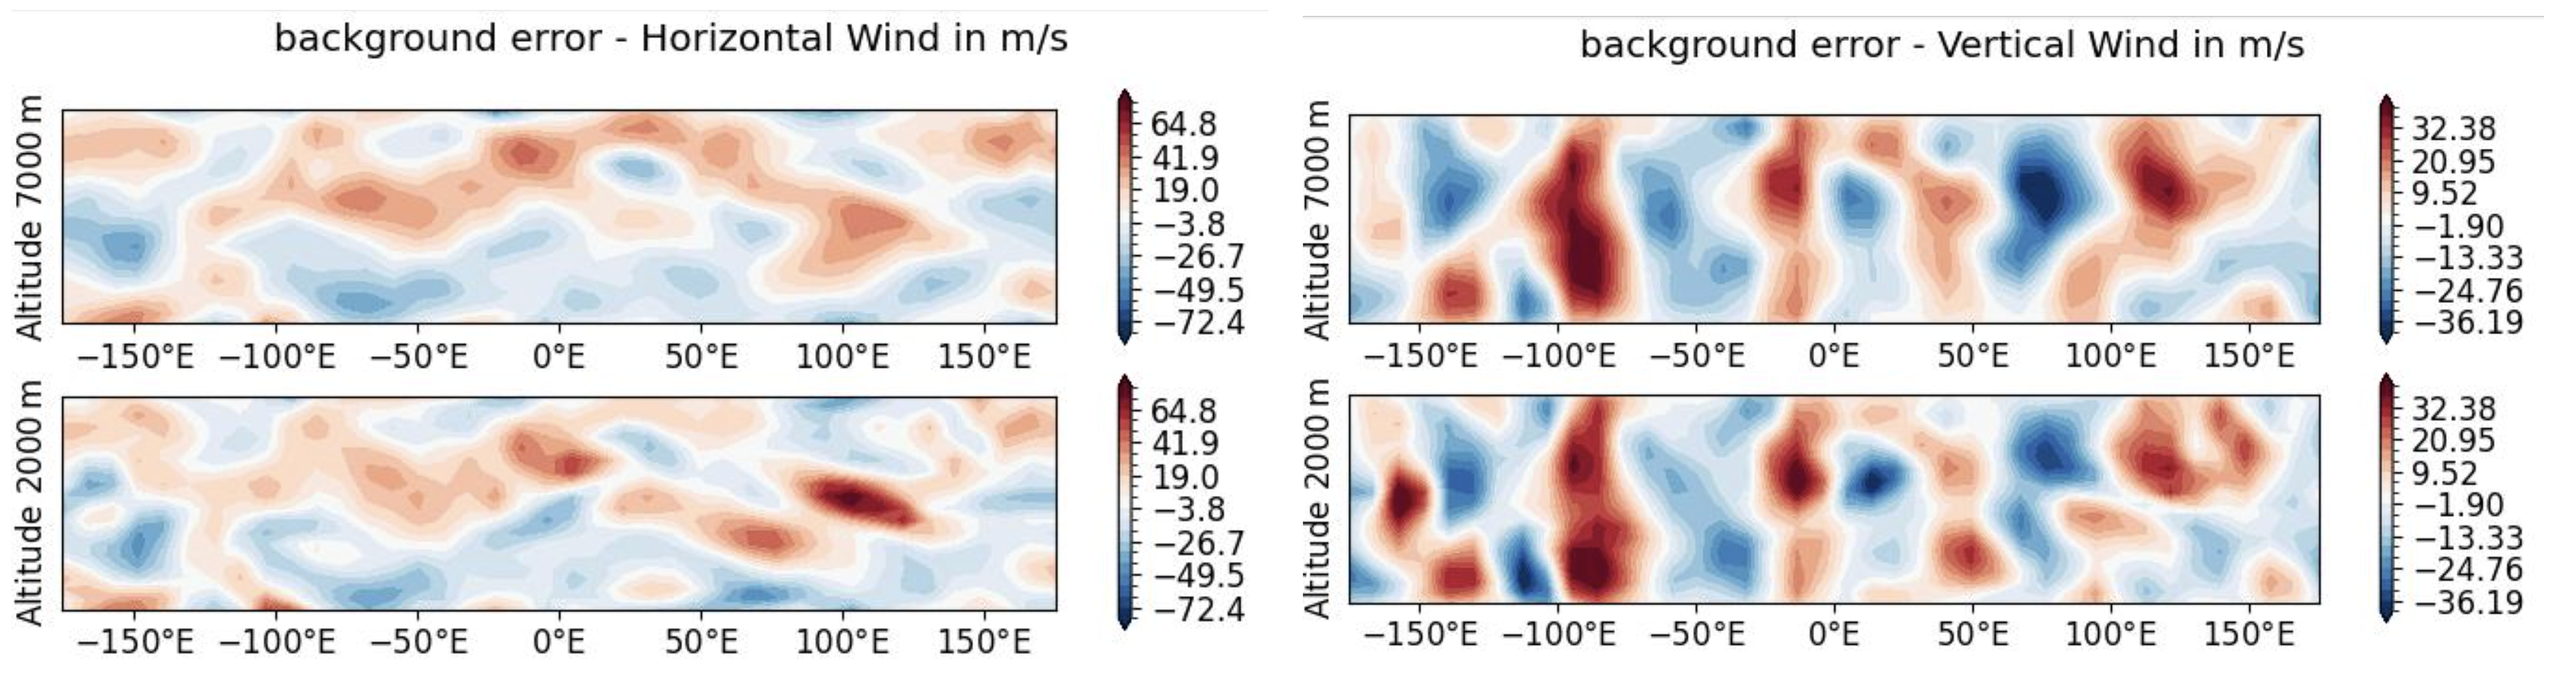
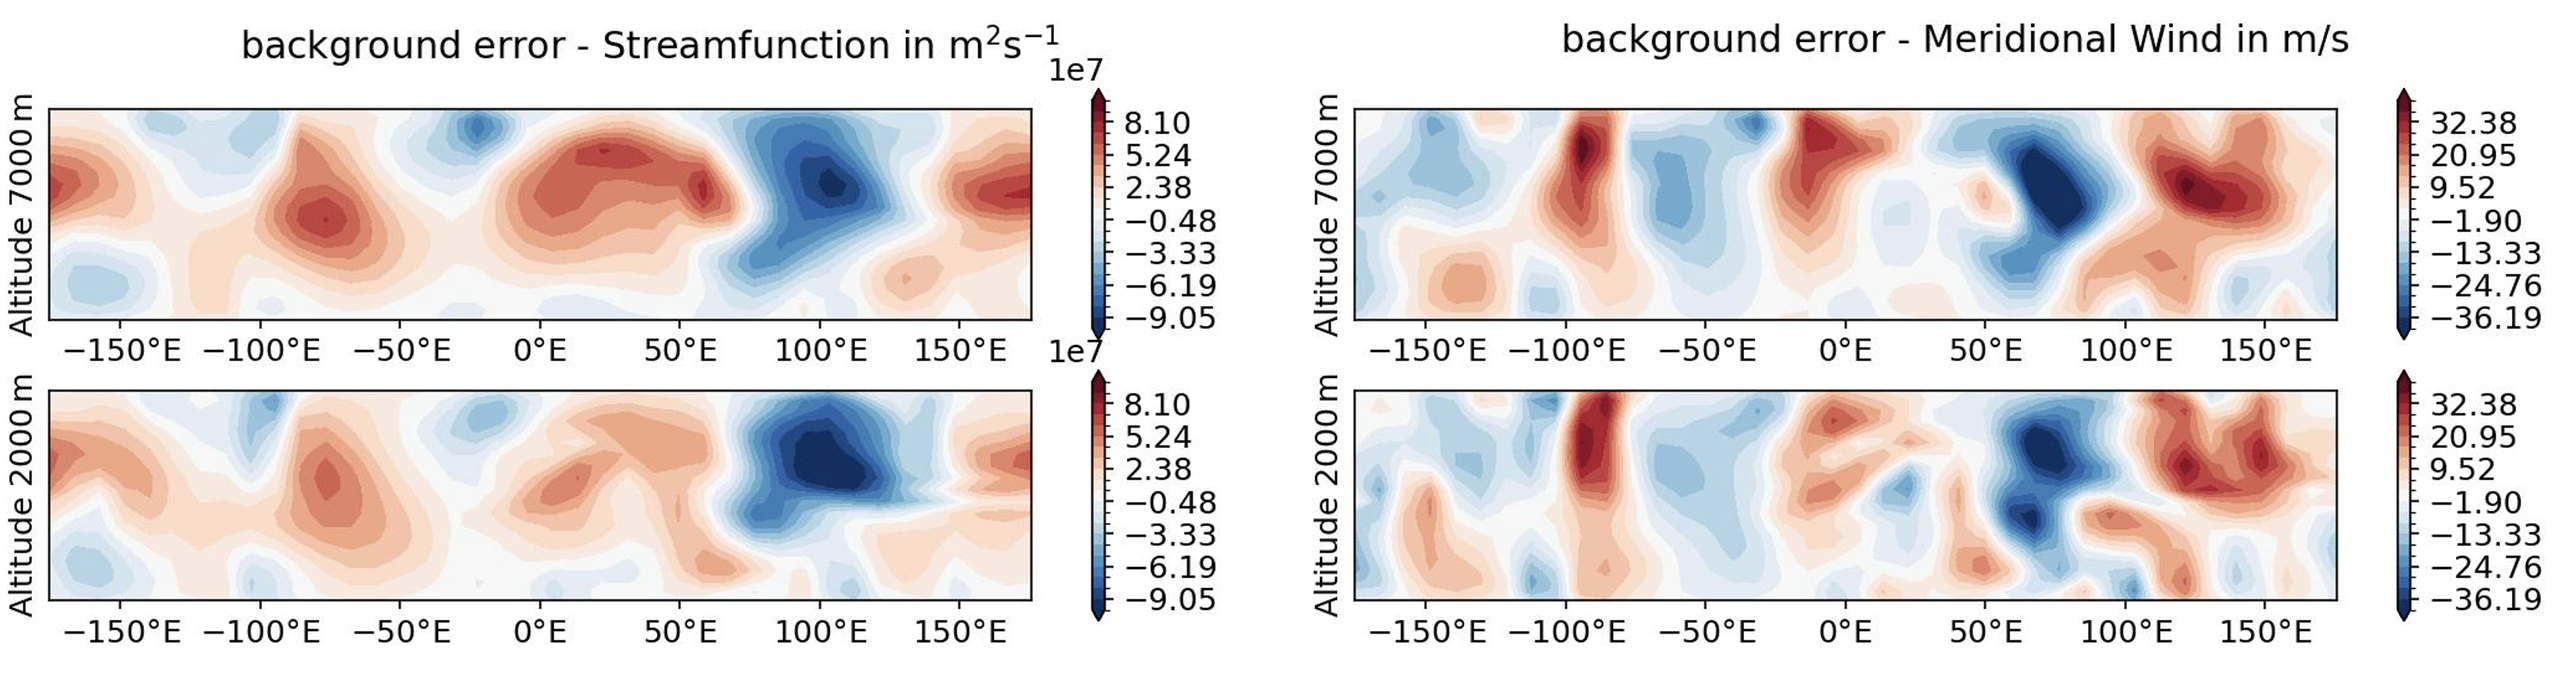
Minor Edits
- Edit section on background error covariance
- Modify plots for u,v to say "zonal" and "meridional" winds instead of "horizontal" and "vertical"

diff --git a/notebooks/EDU/plots_scripts/plot/qg_fields.py b/notebooks/EDU/plots_scripts/plot/qg_fields.py
@@ -315,7 +315,7 @@ def func(args):
                 ax.xaxis.set_major_formatter(my_formatter)
 
                 # Set title
-                varname = dict(x="Streamfunction", q="Potential vorticity",u="Horizontal Wind", v="Vertical Wind").get(variable)
+                varname = dict(x="Streamfunction", q="Potential vorticity",u="Zonal Wind", v="Meridional Wind").get(variable)
                 unit = dict(x="m$^2$s$^{-1}$", q="s$^{-1}$", u="m/s",v="m/s").get(variable)
                 if not args.title is None:
                     fig.suptitle(args.title + " - " + varname + " in " + unit)
